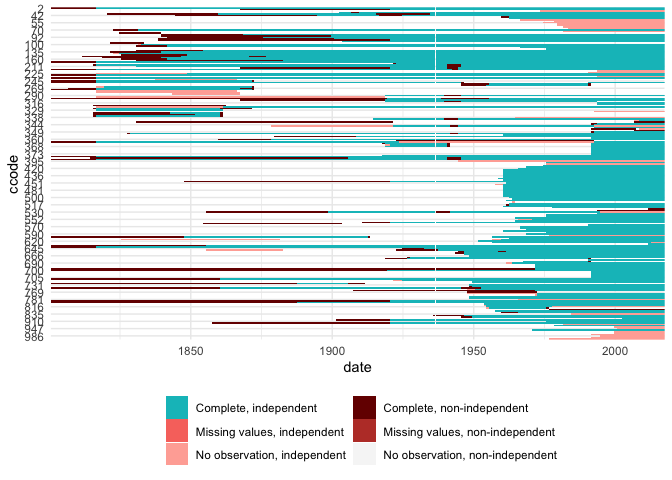
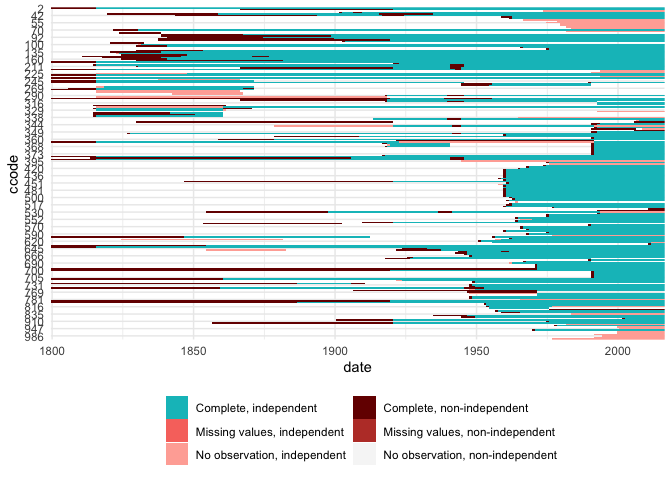
fix README

diff --git a/readme.md b/readme.md
@@ -27,67 +27,74 @@ What the package does:
 
 1.  It contains the Gleditsch and Ward (G\&W) as well as the Correlates
     of War (COW) state system membership lists.
+
+<!-- end list -->
+
+``` r
+library("states")
     
-    ``` r
-    library("states")
-    
-    data(gwstates)
-    data(cowstates)
-    ```
-    
-    Search them with `sfind`, this can be helpful for manual coding:
-    
-    ``` r
-    sfind(260)[, 1:6]
-    #>     list ccode code3c            country_name      start        end
-    #> 45    GW   260    GFR German Federal Republic 1949-09-21 9999-12-31
-    #> 299  COW   260    GFR German Federal Republic 1955-05-05 1990-10-02
-    sfind("German")[, 1:6]
-    #>     list ccode code3c               country_name      start        end
-    #> 44    GW   255    GMY          Germany (Prussia) 1816-01-01 1945-05-07
-    #> 45    GW   260    GFR    German Federal Republic 1949-09-21 9999-12-31
-    #> 46    GW   265    GDR German Democratic Republic 1949-10-05 1990-10-02
-    #> 297  COW   255    GMY                    Germany 1816-01-01 1945-05-08
-    #> 298  COW   255    GMY                    Germany 1990-10-03 2016-12-31
-    #> 299  COW   260    GFR    German Federal Republic 1955-05-05 1990-10-02
-    #> 300  COW   265    GDR German Democratic Republic 1954-03-25 1990-10-02
-    ```
+data(gwstates)
+data(cowstates)
+```
+
+Search them with `sfind`, this can be helpful for manual coding:
+
+``` r
+sfind(260)[, 1:6]
+#>     list ccode code3c            country_name      start        end
+#> 45    GW   260    GFR German Federal Republic 1949-09-21 9999-12-31
+#> 299  COW   260    GFR German Federal Republic 1955-05-05 1990-10-02
+sfind("German")[, 1:6]
+#>     list ccode code3c               country_name      start        end
+#> 44    GW   255    GMY          Germany (Prussia) 1816-01-01 1945-05-07
+#> 45    GW   260    GFR    German Federal Republic 1949-09-21 9999-12-31
+#> 46    GW   265    GDR German Democratic Republic 1949-10-05 1990-10-02
+#> 297  COW   255    GMY                    Germany 1816-01-01 1945-05-08
+#> 298  COW   255    GMY                    Germany 1990-10-03 9999-12-31
+#> 299  COW   260    GFR    German Federal Republic 1955-05-05 1990-10-02
+#> 300  COW   265    GDR German Democratic Republic 1954-03-25 1990-10-02
+```
 
 2.  You can use it to build a country-year template that matches either
     the COW or G\&W state lists.
+
+<!-- end list -->
+
+``` r
+countries <- state_panel(1991, 2001)
     
-    ``` r
-    countries <- state_panel("1991-01-01", "2010-01-01", by = "year")
-    
-    str(countries)
-    #> 'data.frame':    3808 obs. of  2 variables:
-    #>  $ gwcode: int  2 2 2 2 2 2 2 2 2 2 ...
-    #>  $ date  : Date, format: "1991-01-01" "1992-01-01" ...
-    ```
+str(countries)
+#> 'data.frame':    2091 obs. of  2 variables:
+#>  $ gwcode: int  2 2 2 2 2 2 2 2 2 2 ...
+#>  $ year  : int  1991 1992 1993 1994 1995 1996 1997 1998 1999 2000 ...
+```
 
 3.  Visualize missing/non-independent cases in your data. See this
     related [blog post for more
     details](https://andybeger.com/2016/09/14/data-management/).
+
+<!-- end list -->
+
+``` r
+data("polity")
+str(polity)
+#> 'data.frame':    17228 obs. of  3 variables:
+#>  $ ccode : num  700 700 700 700 700 700 700 700 700 700 ...
+#>  $ year  : num  1800 1801 1802 1803 1804 ...
+#>  $ polity: num  -6 -6 -6 -6 -6 -6 -6 -6 -6 -6 ...
+polity$date <- as.Date(paste0(polity$year, "-01-01"))
     
-    ``` r
-    data("polity")
-    str(polity)
-    #> 'data.frame':    17228 obs. of  3 variables:
-    #>  $ ccode : num  700 700 700 700 700 700 700 700 700 700 ...
-    #>  $ year  : num  1800 1801 1802 1803 1804 ...
-    #>  $ polity: num  -6 -6 -6 -6 -6 -6 -6 -6 -6 -6 ...
-    polity$date <- as.Date(paste0(polity$year, "-12-31"))
-    
-    plot_missing(polity, "polity", "ccode", "date", "year", statelist = "COW")
-    ```
-    
-    <img src="man/figures/README-unnamed-chunk-4-1.png" width="100%" />
-    
-    ``` r
-    
-    # for the underlying data
-    mm <- missing_info(polity, "polity", "ccode", "date", "year", statelist = "COW")
-    ```
+plot_missing(polity, "polity", "ccode", "date", "year", statelist = "COW")
+```
+
+<img src="man/figures/README-unnamed-chunk-4-1.png" width="100%" />
+
+For the underlying
+data:
+
+``` r
+mm <- missing_info(polity, "polity", "ccode", "date", "year", statelist = "COW")
+```
 
 ## Install
 
